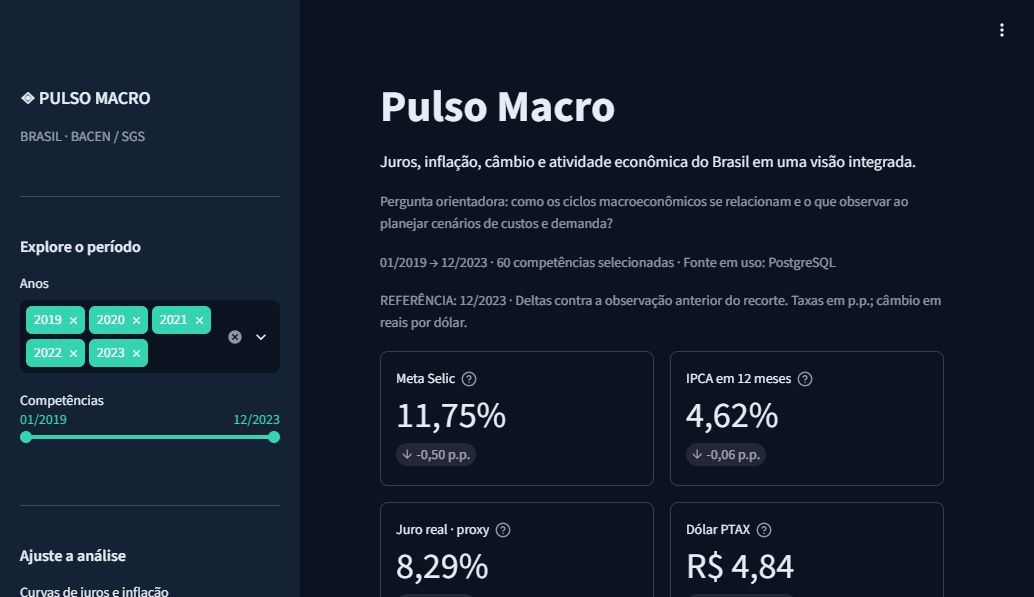
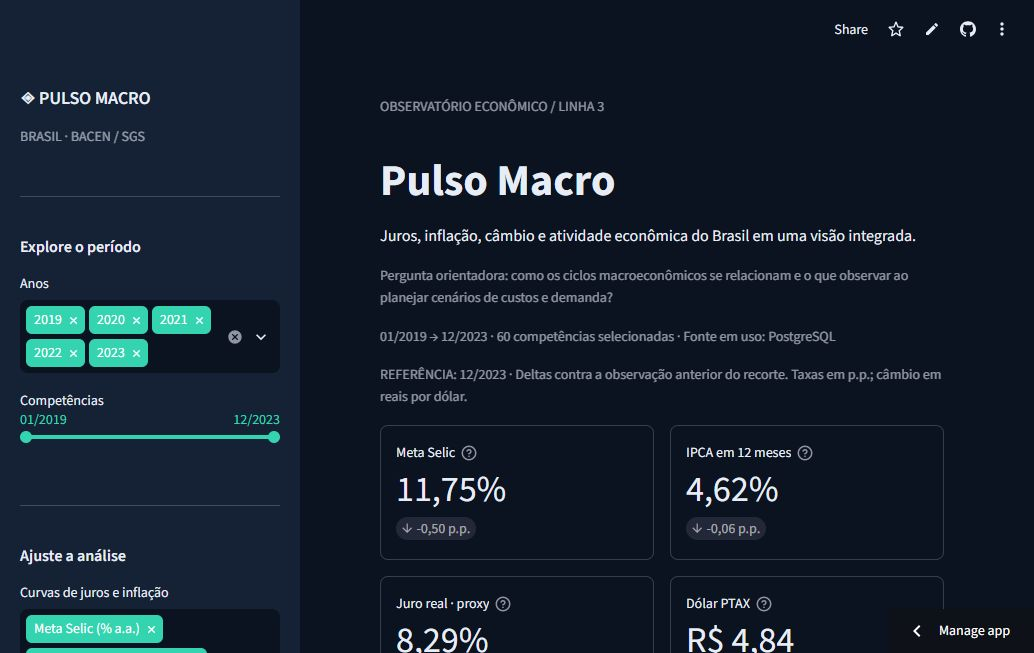
docs: registra validacao final em producao e confirmacao da autora

diff --git a/docs/checklist_avaliacao.md b/docs/checklist_avaliacao.md
@@ -19,7 +19,7 @@ Conferência e adequações em **30/10/2026**, com base no PDF oficial de 15 pá
 | README nos 14 tópicos | p. 11 | Estruturado; falta completar URL do vídeo após gravação |
 | Trello público com print | p. 11–12 | Link e docs/trello.png no README; criado nas adequações, sem histórico retroativo |
 | Cards com nome/especificações e WIP 1 | p. 14 | Nome completo, descrições e movimentações reais; histórico anterior não é reconstituído |
-| GitFlow | p. 12 e 14 | Feature analítica integrada por PR em develop; documentação em feature própria; conferir PRs finais para main e master |
+| GitFlow | p. 12 e 14 | PRs reais #1–#4 integrados; main é padrão estável; develop e duas branches de funcionalidades preservadas; master sincronizada para o deploy |
 | Vídeo individual de 3–5 minutos | p. 2–3 e 12–14 | Roteiro corrigido; **gravação e URL pendentes da autora** |
 | Autoria, LinkedIn e referências | p. 11 | Nome completo e LinkedIn confirmados; fontes e assistência técnica identificadas |
 | Entrega dos três links no AVA | p. 3 | **Pendente da autora**, até 03/11/2026 às 22h |
@@ -51,7 +51,10 @@ Conferência e adequações em **30/10/2026**, com base no PDF oficial de 15 pá
 
 ## Pendências finais
 
-1. Concluir e verificar as integrações finais e o dashboard atualizado.
-2. A autora gravar e hospedar o pitch, enviar sua URL e conferir os acessos.
-3. Completar o campo de vídeo no README/texto de entrega antes da submissão.
-4. Submeter GitHub, Streamlit e vídeo no AVA e congelar alterações até a nota.
+1. A autora gravar e hospedar o pitch, enviar sua URL e conferir os acessos.
+2. Completar o campo de vídeo no README/texto de entrega antes da submissão.
+3. Submeter GitHub, Streamlit e vídeo no AVA e congelar alterações até a nota.
+
+## Validação final em produção
+
+Em 30/10/2026, o CI final de master (run 41125081225) foi aprovado e os arquivos de main/master foram comparados como idênticos. A aplicação carregou PostgreSQL, seis abas e as novas respostas de negócio. A seleção de 2020 apresentou 12 competências e o CSV baixado foi conferido com 12 linhas e dez colunas; o reset restaurou 60 meses. A autora confirmou que o endereço principal mostra a nova aba. A reinicialização da aplicação resolveu um módulo antigo em memória após a atualização, sem excluir a implantação. O registro desta conferência está em uma feature de validação separada.

diff --git a/docs/entrega_final.md b/docs/entrega_final.md
@@ -40,9 +40,9 @@ O repositório público dispensa convite para consulta do professor. O quadro fo
 - [x] Nome e LinkedIn confirmados.
 - [x] Trello separado do quadro de exercícios, com quatro colunas, cards identificados e especificações.
 - [x] Gráficos e análises locais adequados à Linha 3, com 32 testes aprovados.
-- [ ] Confirmar integração final em main e sincronização do deploy em master, com CI aprovado.
+- [x] Integração final em main e sincronização do deploy em master, com CI final aprovado (run 41125081225).
 - [ ] Gravar, hospedar e conferir vídeo de três a cinco minutos; inserir a URL em README e neste documento.
-- [ ] Conferir acessos em janela sem login.
+- [x] Materiais públicos verificados sem login; endereço principal e nova aba confirmados pela autora. Filtro, download e reset testados em produção.
 - [ ] Submeter os três links na tarefa das Semanas 13 e 14 do AVA.
 
 **Prazo do PDF:** 03/11/2026 às 22h. A última atualização do repositório conta para a entrega. Não modificar o projeto depois de submetê-lo, até receber a nota. A autora informou que ainda não submeteu os links.
